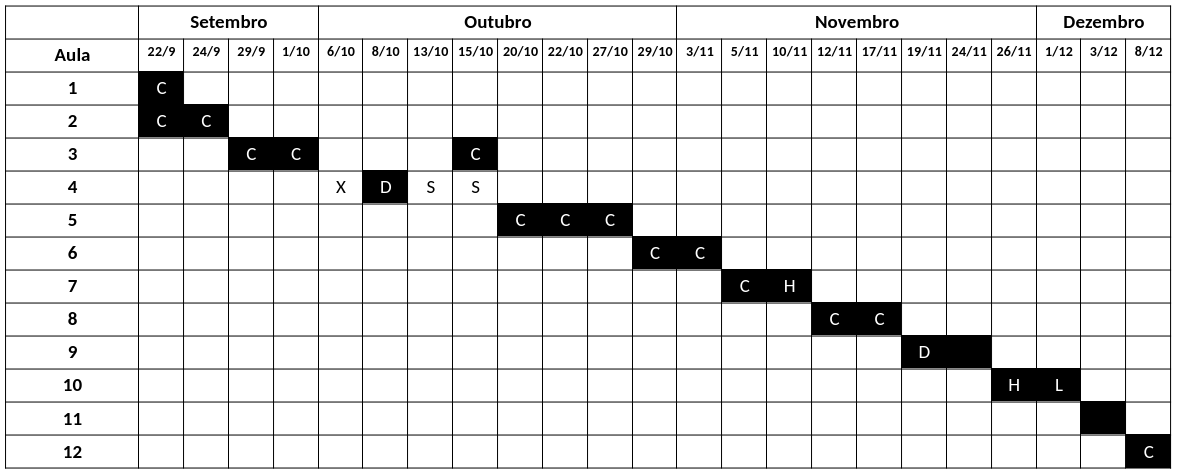
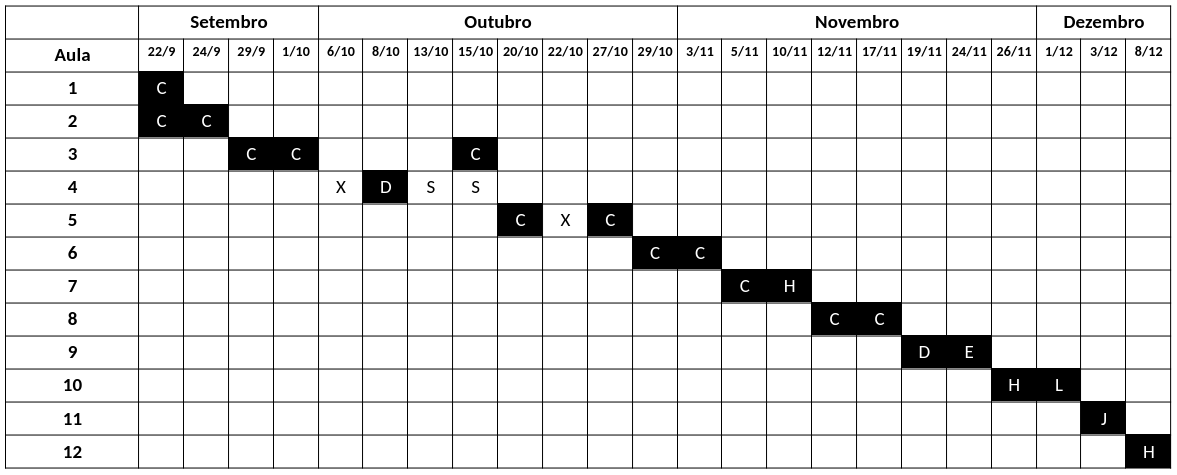
Atualizando arquivos

Changed region(s): [[0.4588, 0.4126, 0.52, 0.5011], [0.7035, 0.0295, 0.7341, 0.0589], [0.3059, 0.0884, 0.3364, 0.1179]]

diff --git a/docs/met563-3.md b/docs/met563-3.md
@@ -151,5 +151,7 @@ Site do curso "Introdução à Assimilação de Dados (MET 563-3)" do Programa d
 * S: Seminários dos alunos
 * C: Aula Carlos
 * D: Aula Dirceu
+* E: Aula Éder
 * H: Aula Helena
+* J: Aula João
 * L: Aula Liviany
